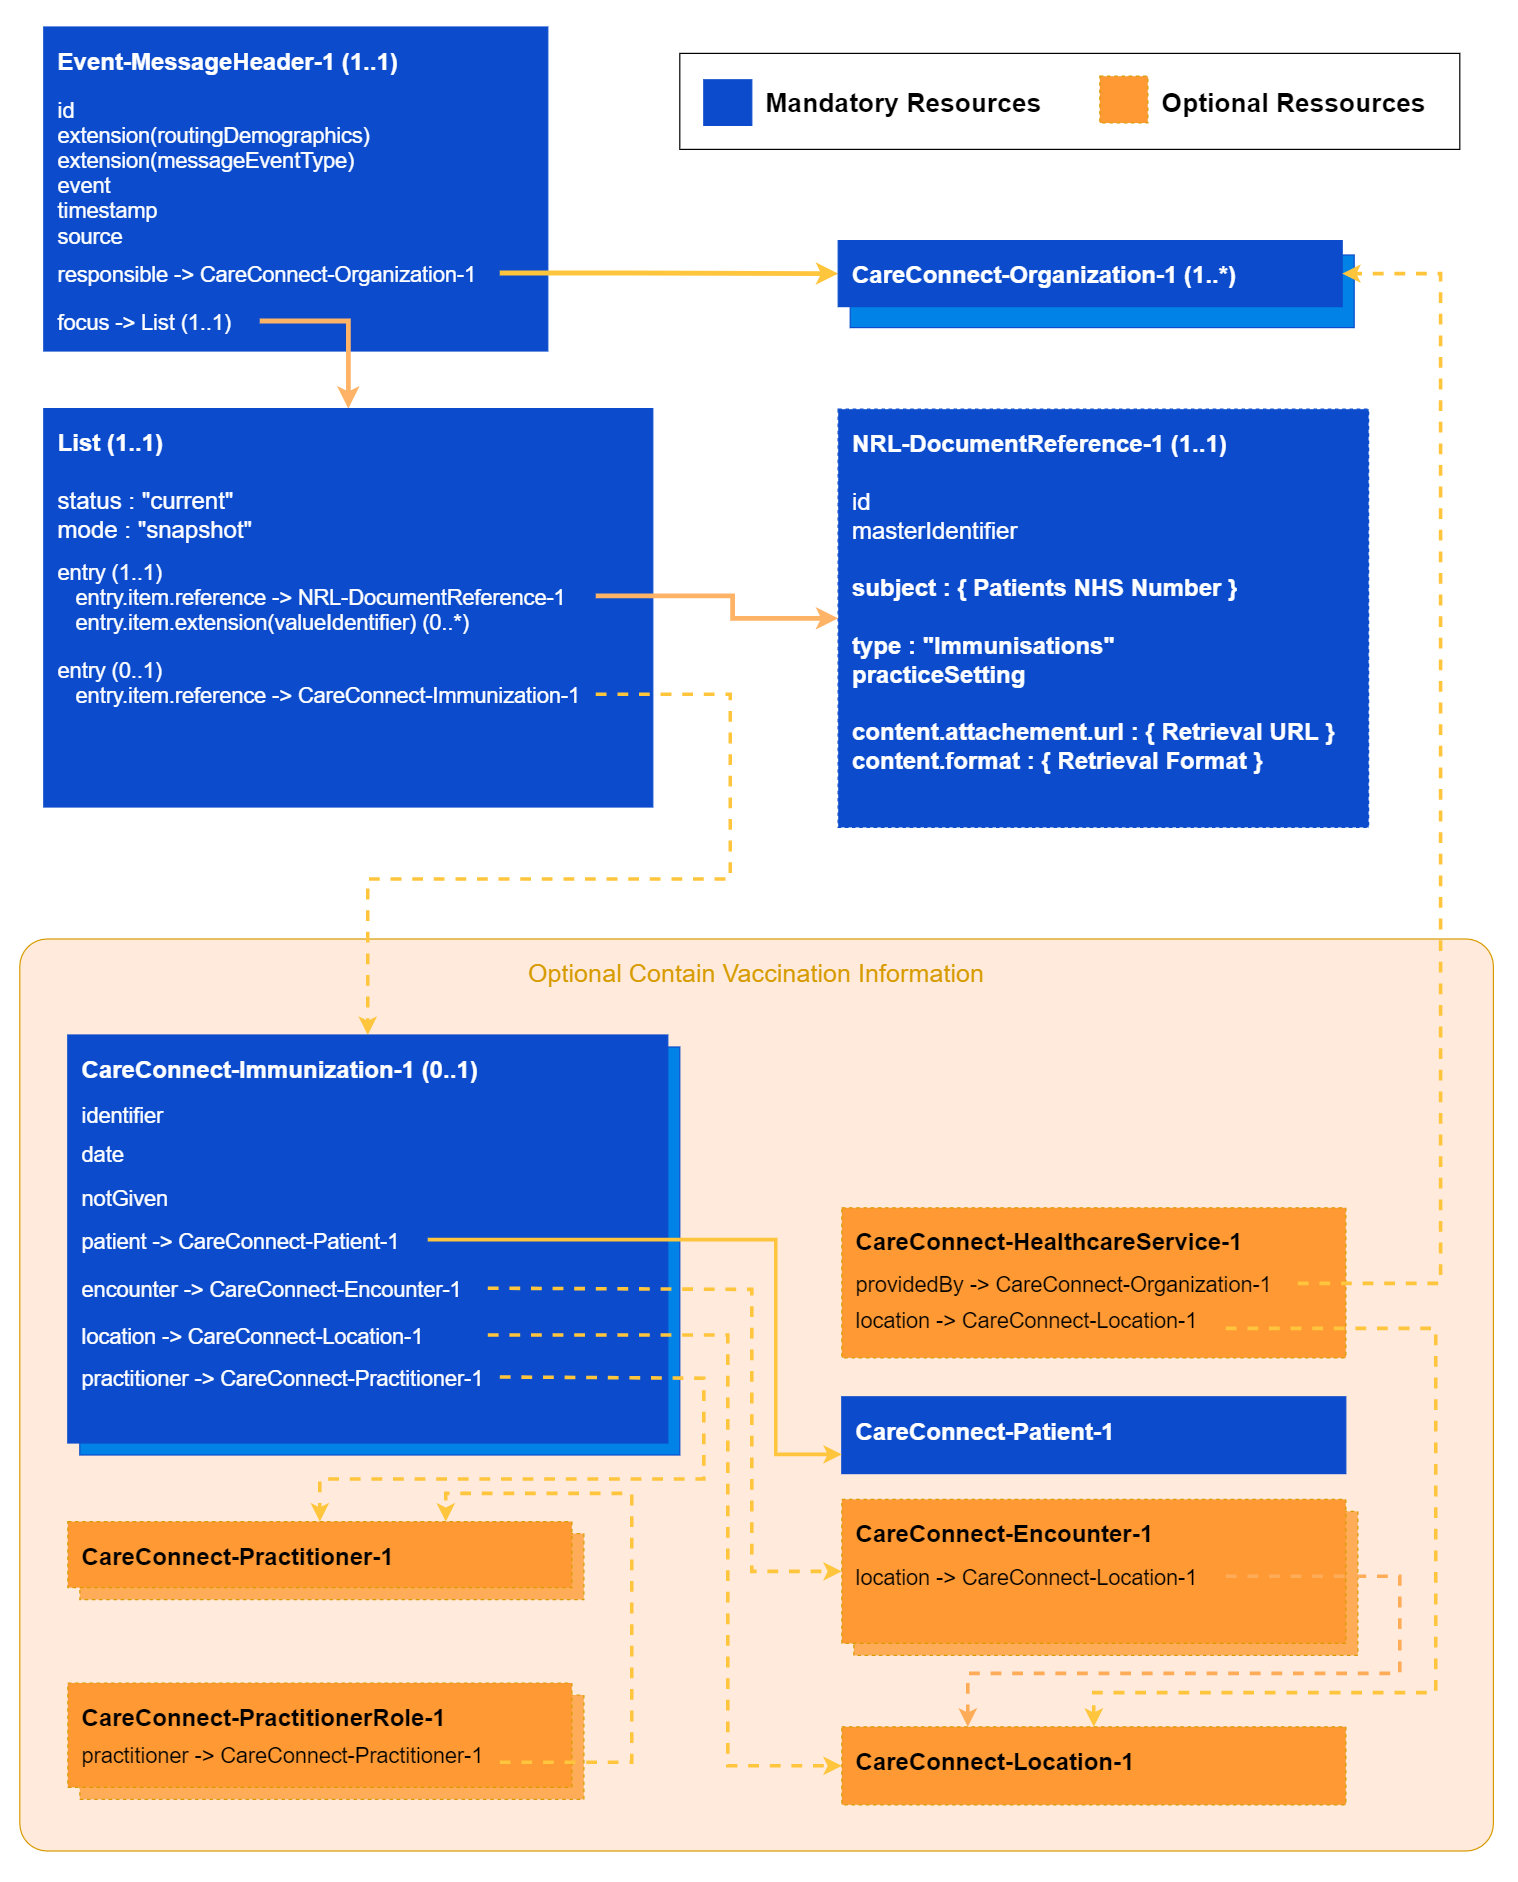
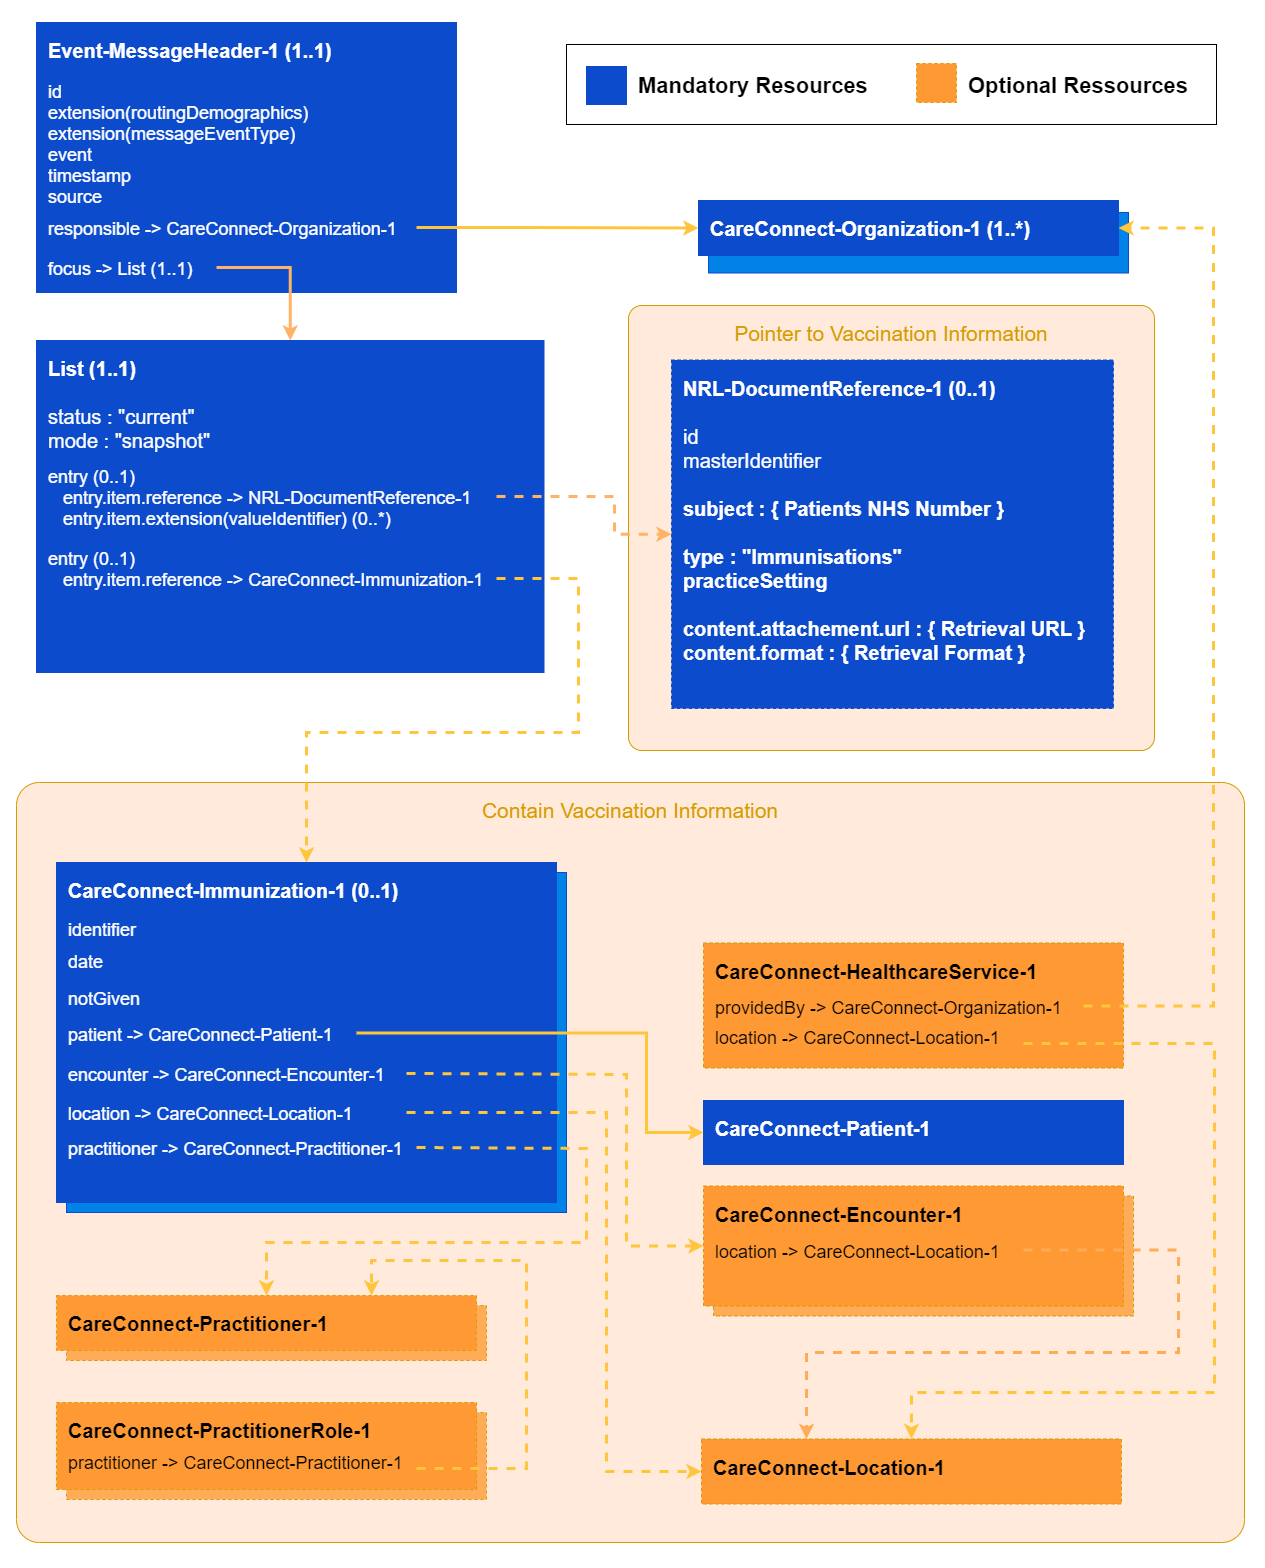
no message

diff --git a/pages/messages/messages/vaccinations_2.md b/pages/messages/messages/vaccinations_2.md
@@ -16,9 +16,10 @@ All "Vaccinations v2" event messages that are published to the NEMS **MUST** be 
 
 ## Bundle structure
 
-The event message will contain a mandatory `MessageHeader` resource as the first element within the event message bundle as per FHIR messaging requirements. The MessageHeader resource references a `List` resource as the focus of the event message. The `List` resource will contain at least one "DocumentReference" resource which will point to where the latest immunization information can be retrieved.
-
-The List may also reference an `Immunization` resource contained in the message. This resource must represent the vaccination that was given or not given to the patient and is the focus of the event message.
+- The event message will contain a mandatory `MessageHeader` resource as the first element within the event message bundle as per FHIR messaging requirements.
+- The MessageHeader resource references a `List` resource as the focus of the event message.
+- The `List` resource SHOULD reference a "DocumentReference" resource which points to where the latest immunization information can be retrieved
+- The `List` resource MAY reference an `Immunization` resource contained in the message. This resource must represent the vaccination that was given or not given to the patient and is the focus of the event message.
 
 
 The diagram below shows the referencing between FHIR resources within the event message bundle:
@@ -97,23 +98,23 @@ The `List` resource **MUST** conform to the `List` base FHIR profile and the add
 
 |Element|Cardinality|Additional Guidance|
 |-------|-----------|-------------------|
-| entry.item.reference(DocumentReference) | 1..1 | Reference to the DocumentReference resource representing retrieval endpoint |
+| entry.item.reference(DocumentReference) | 0..1 | Reference to the DocumentReference resource representing retrieval endpoint |
 | entry.item.extension `(valueIdentifier).valueIdentifier` | 0..1 | This extension may be included on the `entry.item` for the entry related to the NRL DocumentReference.<br/><br/>The business identifier for the immunization, which is the trigger/focus for this event, **MAY** be included within this extension to reference the specific immunization which will be returned within the list of immunizations retrieved from the endpoint. |
-| entry.item.reference(Immunization) | 0..1 | Reference to contained Immunization resource if included |
+| entry.item.reference(Immunization) | 0..1 | Reference to Immunization resource if included in the bundle |
 
 
 ### [DocumentReference](https://fhir.nhs.uk/STU3/StructureDefinition/NRL-DocumentReference-1)
 
-The event message must contain a "NRL-DocumentReference-1" Resource which is a pointer to the endpoint URLs exposed by the publisher, where vaccination information can be retrieved by the subscriber.
+The event message SHOULD contain a "NRL-DocumentReference-1" Resource which is a pointer to the endpoint URLs exposed by the publisher, where vaccination information can be retrieved by the subscriber.
 
 The DocumentReference resource **MUST**:
 
 - conform to the requirements in the [National Record Locator (NRL)](https://nrl-data-format-draft.netlify.app/) specification 
 - be a [pointer](https://nrl-data-format-draft.netlify.app/pointer_data_model_overview.html) of the `information type` ["Immunisations"](https://nrl-data-format-draft.netlify.app/supported_pointer_types.html)
-- point to immunization information and support at least the [Vaccination List - FHIR STU3](https://nrl-data-format-draft.netlify.app/retrieval_vaccinations_fhir_stu3.html) retrieval format and interaction
+- point to immunization information and support at least the [CareConnect Immunizations FHIR STU3](https://nrl-data-format-draft.netlify.app/retrieval_careconnect_immunizations_fhir_stu3.html) retrieval format and interaction
 - be successfully created on the NRL, using the [create interaction](https://nrl-data-format-draft.netlify.app/api_interaction_create.html) before publishing this event message
 
-| Resource Cardinality | 1..1 |
+| Resource Cardinality | 0..1 |
 
 
 
@@ -130,12 +131,12 @@ All Organization resources included in the bundle SHALL conform to the [CareConn
 
 
 
-## Optional Immunization Resource and Supporting Resources
+## Included Immunization Resource and Supporting Resources
 
 
 ### [CareConnect-Immunization-1](https://fhir.hl7.org.uk/STU3/StructureDefinition/CareConnect-Immunization-1)
 
-If the contained Immunization resource is included as part of the event message, it SHALL conform to the [CareConnect-Immunization-1](https://fhir.hl7.org.uk/STU3/StructureDefinition/CareConnect-Immunization-1) constrained FHIR profile and the additional population guidance as per the table below:
+If the Immunization resource is included as part of the event message, it SHALL conform to the [CareConnect-Immunization-1](https://fhir.hl7.org.uk/STU3/StructureDefinition/CareConnect-Immunization-1) constrained FHIR profile and the additional population guidance as per the table below:
 
 | Resource Cardinality | 0..1 |
 
